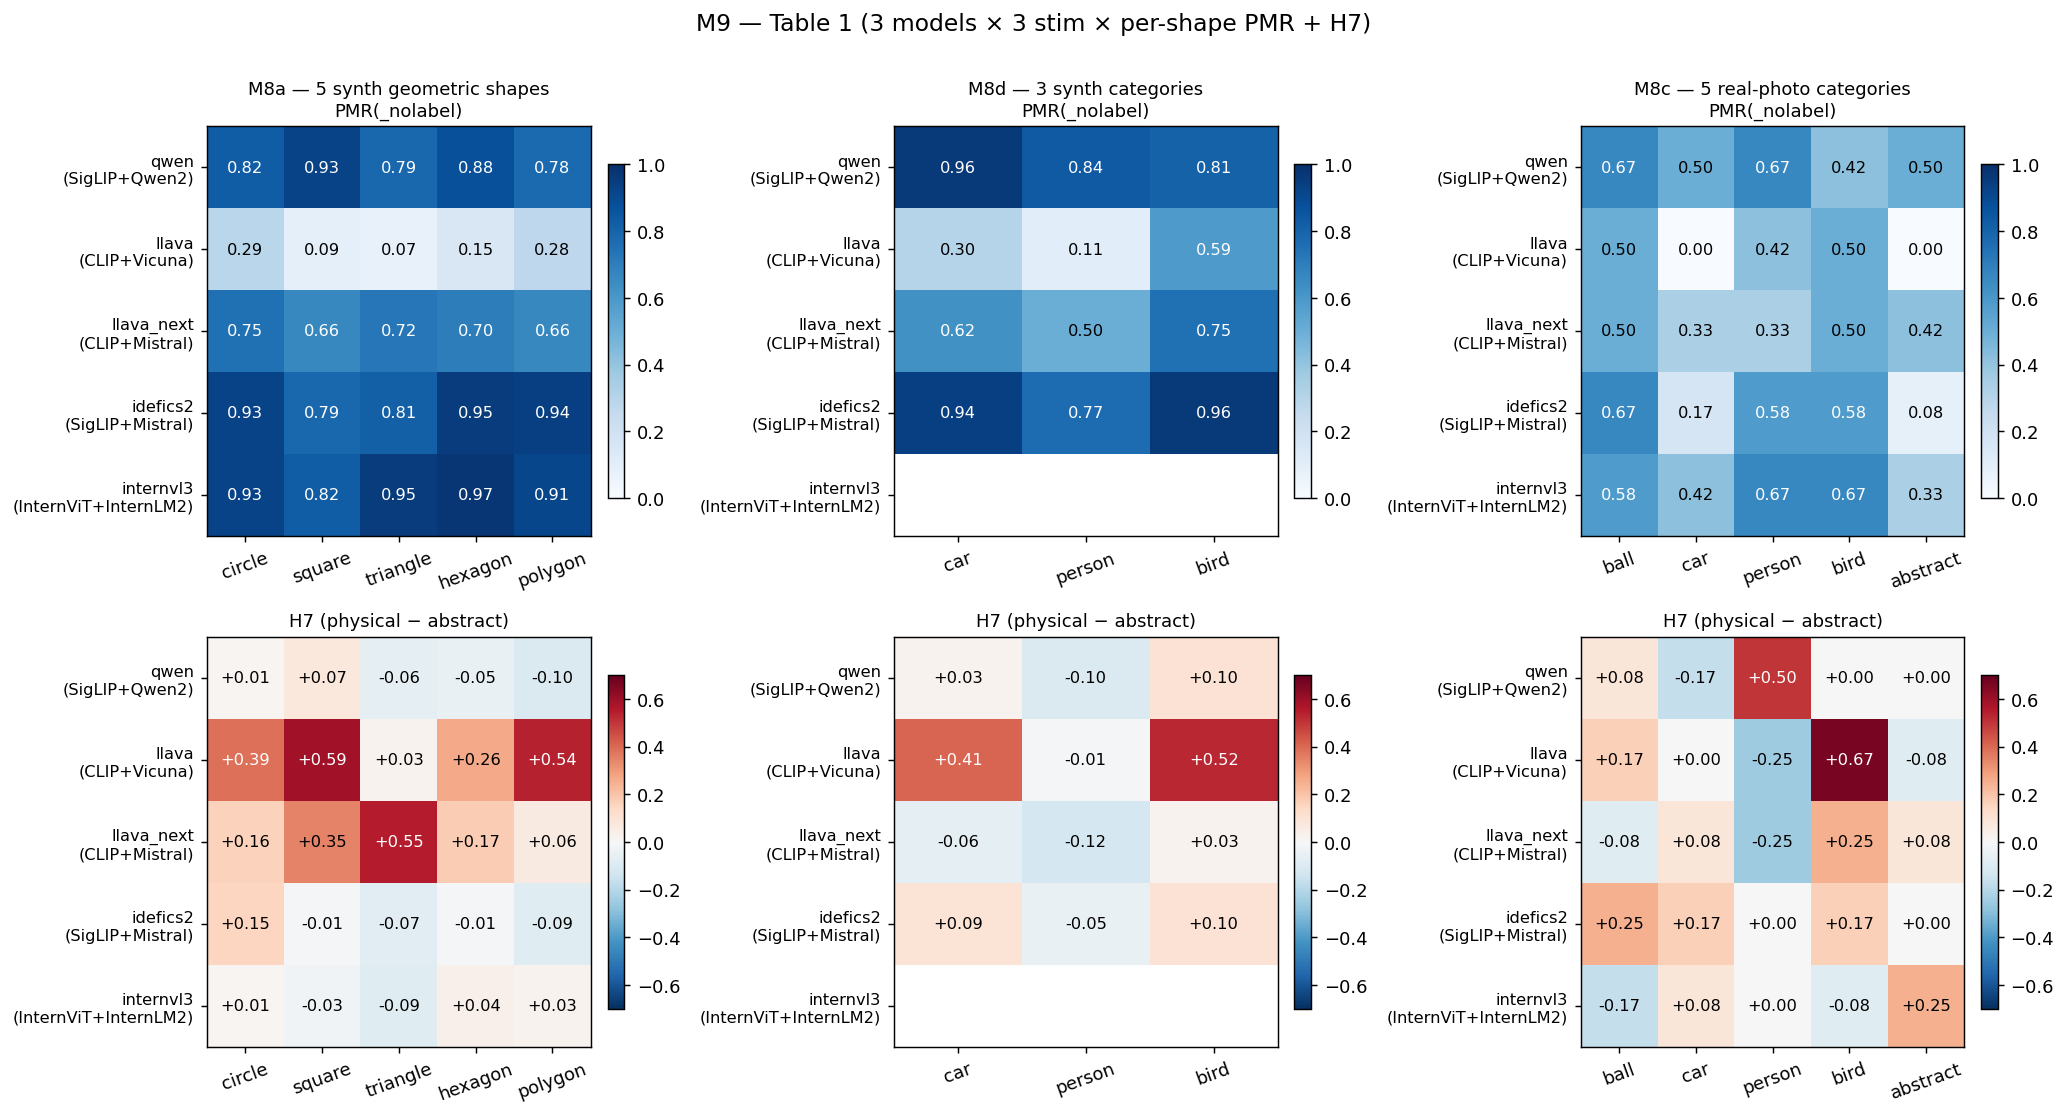
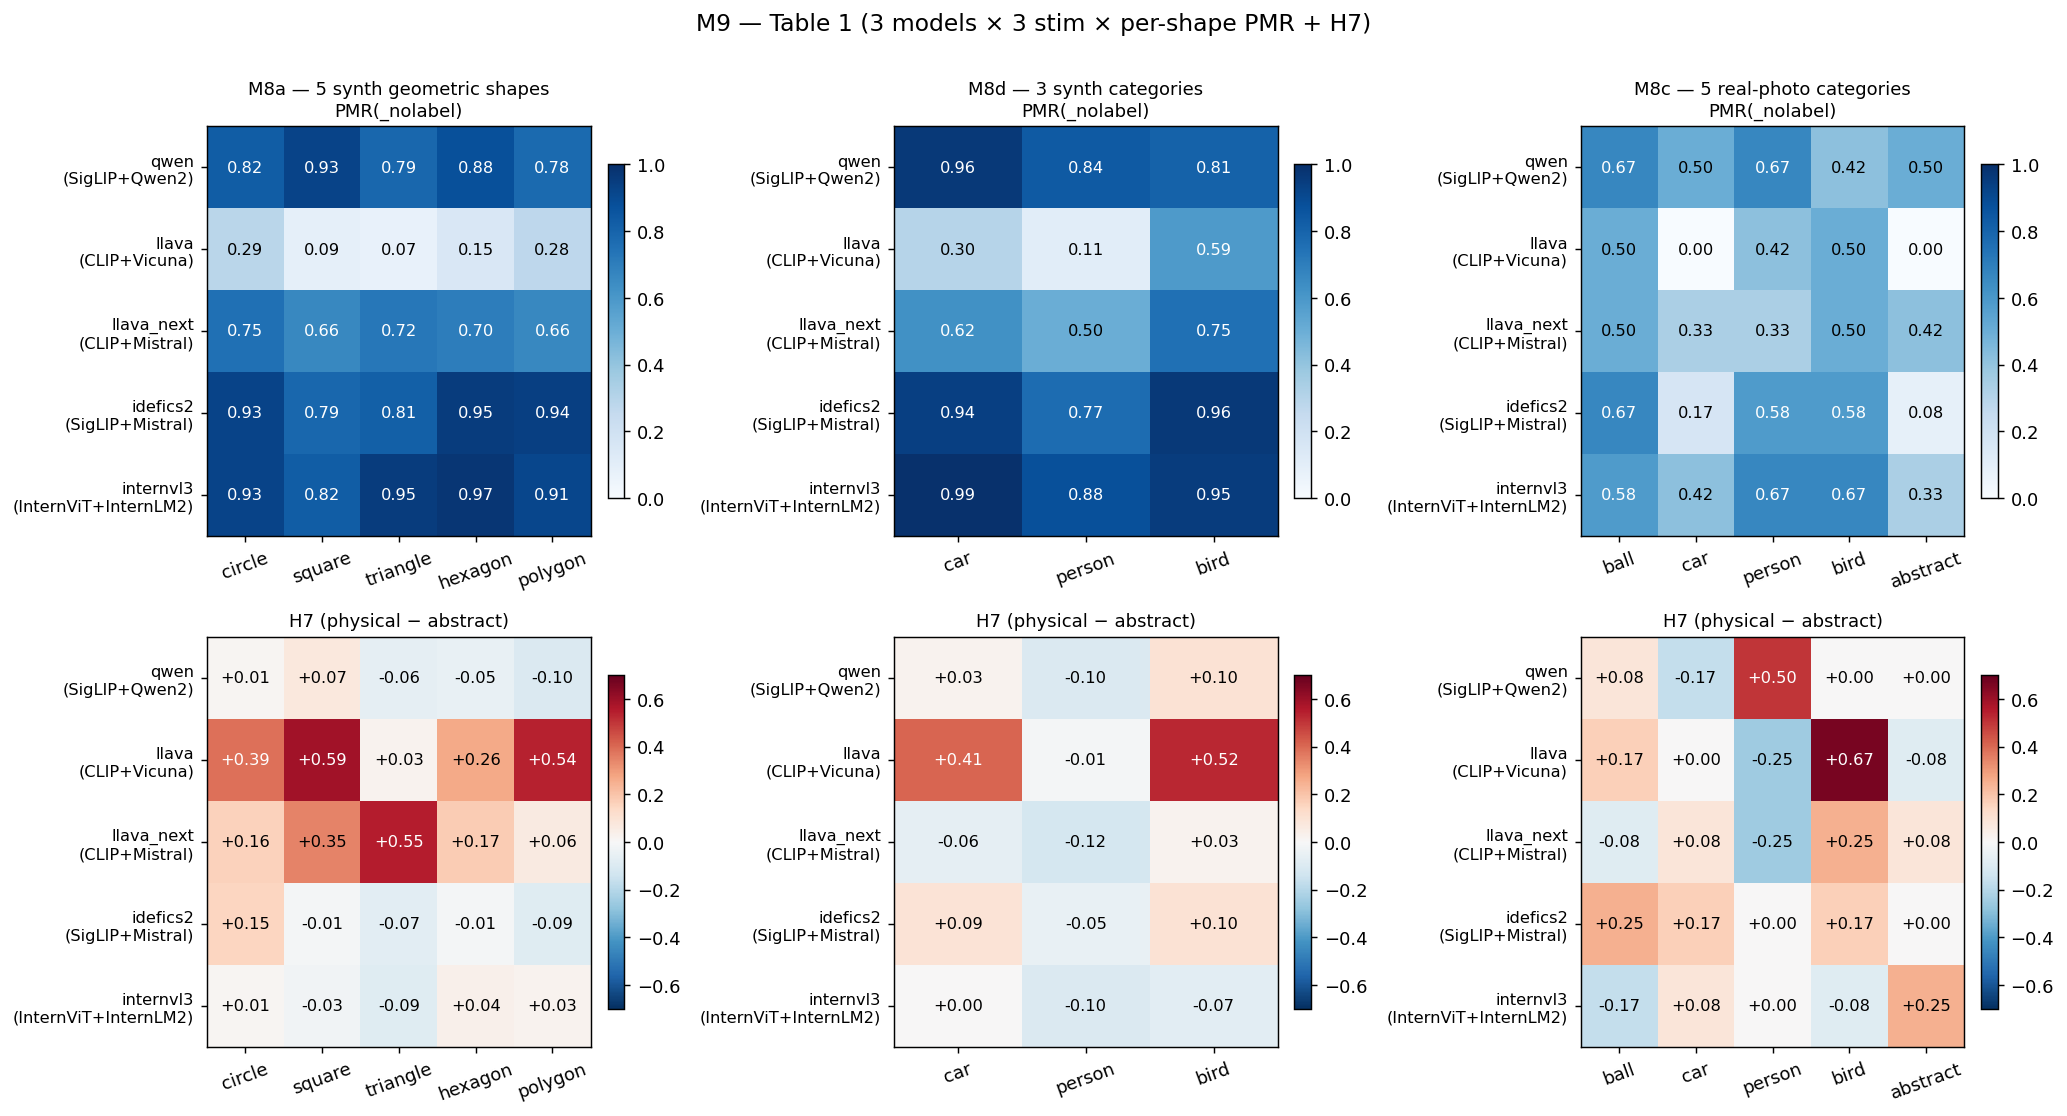
feat(m9 audit): add InternVL3 M8d row (5-model M8d coverage)
Adds InternVL3 M8d to encoder_swap_analyze PREFIXES dict (was deferred
"InternVL3 M8d not yet run"). M9 audit re-runs to include:

m8d  internvl3   InternViT  InternLM2-7B  PMR 0.940 [0.919, 0.960]
                              mean_h7_delta -0.058 [-0.090, -0.027]

InternVL3 M8d H7 CI excludes 0 in the negative direction by ~0.027.
Driver: person × exotic (statue) drops PMR from 0.800 (physical label
"person") to 0.481 (exotic label "statue") — the statue label strongly
suppresses kinetic-mode reading on person stim. car + bird show 0 effect.

This matches the §4.11 regime distribution finding: InternVL3 person ×
exotic shows ~65% static (the strongest label-driven static commit in
the project). Both signals point to InternVL3 having an active label-
disambiguation channel for the statue label specifically.

Per advisor's earlier guidance, this remains "suggested only" for
H-LM-modulation since the 4 architectural axes between models are still
confounded.

Refreshes: docs/figures/m9_summary.png + m9_table1_heatmap.png with
M8d 4-model → 5-model row added.

Changed region(s): [[0.4335, 0.3961, 0.6193, 0.4875], [0.4954, 0.853, 0.6193, 0.9444]]

diff --git a/scripts/encoder_swap_analyze.py b/scripts/encoder_swap_analyze.py
@@ -63,7 +63,7 @@ PREFIXES: dict[str, dict[str, str]] = {
         "llava": "m8d_llava",
         "llava_next": "encoder_swap_llava_next_m8d",
         "idefics2": "encoder_swap_idefics2_m8d",
-        # InternVL3 M8d not yet run — encoder_swap_analyze tolerates missing data.
+        "internvl3": "encoder_swap_internvl3_m8d",
     },
     "m8c": {
         "qwen": "m8c_qwen",
